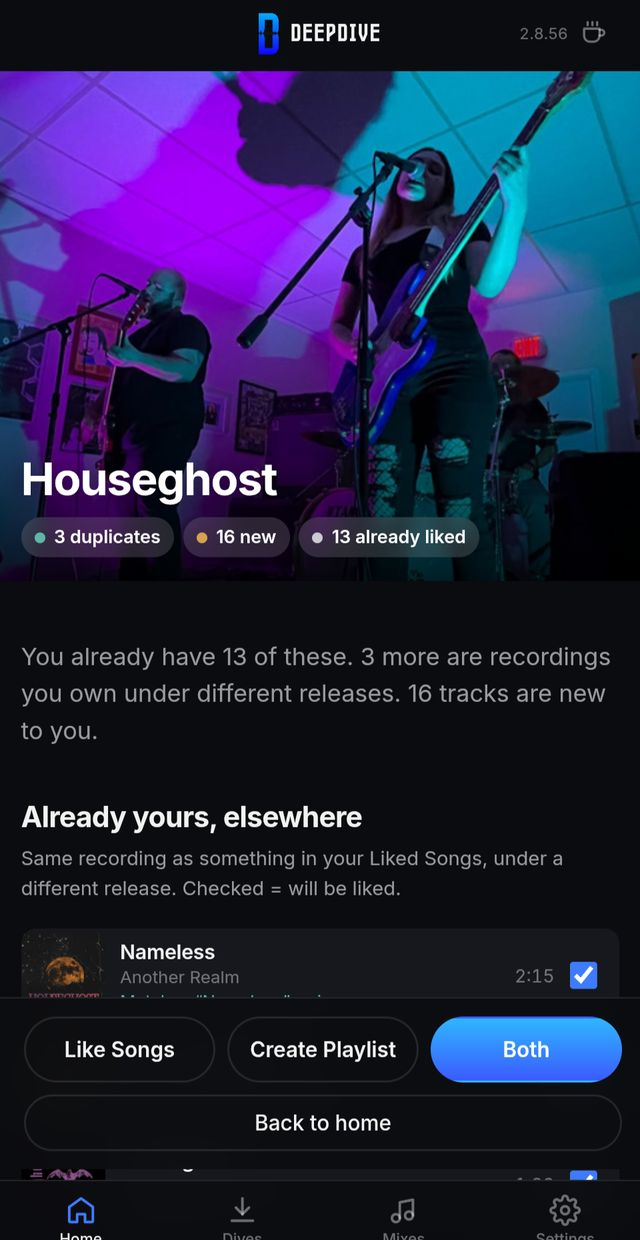
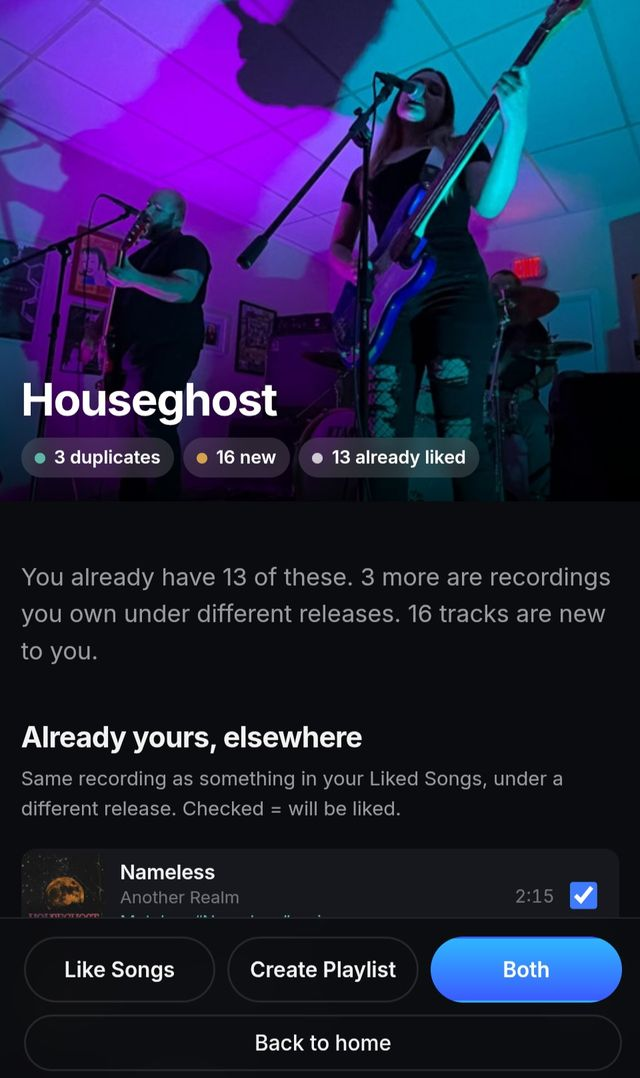
2.8.60: correct crop, and check declared image dimensions
Swapped the results screenshot for the properly cropped one. Its height
changed, and the declared height had to change with it — otherwise the
browser reserves the wrong space and the page shifts as it loads.

Added a check reading each JPEG's SOF marker and comparing it against
the width and height in the markup. Verified it fails against a stale
height before keeping it. Every screenshot swap this session was a
chance to leave one behind, and nothing would have noticed.

diff --git a/docs/index.html b/docs/index.html
@@ -799,7 +799,7 @@
         <p>Nothing is written to Spotify until you choose it. Untick anything, reorder it, cap the length, then build the playlist.</p>
       </div>
       <figure class="device device-still">
-        <img src="img/shots/app-results.jpg" alt="A finished dive, showing tracks already owned under a different release alongside tracks new to the listener" width="640" height="1240" loading="lazy">
+        <img src="img/shots/app-results.jpg" alt="A finished dive, showing tracks already owned under a different release alongside tracks new to the listener" width="640" height="1078" loading="lazy">
       </figure>
     </section>
 

diff --git a/docs/js/app.js b/docs/js/app.js
@@ -23,7 +23,7 @@ import * as lastfm from "./lastfm.js";
 // Build marker. Twice now, diagnosing a problem has meant reasoning
 // about which version was actually loaded from indirect evidence — slow
 // and easy to get wrong. Showing it removes the guesswork.
-export const BUILD = "2.8.59";
+export const BUILD = "2.8.60";
 
 const client = new SpotifyClient(auth.getToken);
 // Incremental liked-songs cache: read the whole library once, then only

diff --git a/CHANGELOG.md b/CHANGELOG.md
@@ -4,6 +4,13 @@
 > stops at the Flask era. The 2.x record lives in the git log and
 > `ROADMAP.md`'s "Shipped since".
 
+## 2.8.60
+- Swapped in the correctly cropped results screenshot, and corrected
+  the height declared for it — a stale one reserves the wrong space and
+  the page jumps as the image loads.
+- Added a check that every declared image dimension matches the actual
+  file, since each screenshot swap is a chance to leave one behind.
+
 ## 2.8.59
 - The results panel now shows a Houseghost dive, which has all three
   outcomes on screen — already yours, yours under a different release,

diff --git a/CLAUDE.md b/CLAUDE.md
@@ -3,7 +3,7 @@
 Written for a future session with no memory of this one. Read this
 before touching anything.
 
-**Last updated at build 2.8.59.** If the build in `js/app.js` is well
+**Last updated at build 2.8.60.** If the build in `js/app.js` is well
 ahead of that, treat this file with suspicion and verify against the
 code — then bring it up to date.
 

diff --git a/ROADMAP.md b/ROADMAP.md
@@ -140,7 +140,7 @@ clean before anything is built on it.
 
 ---
 
-## Shipped since — build 2.8.59
+## Shipped since — build 2.8.60
 
 Delivered while working through Joseph's review notes, ahead of the
 sessions below:
